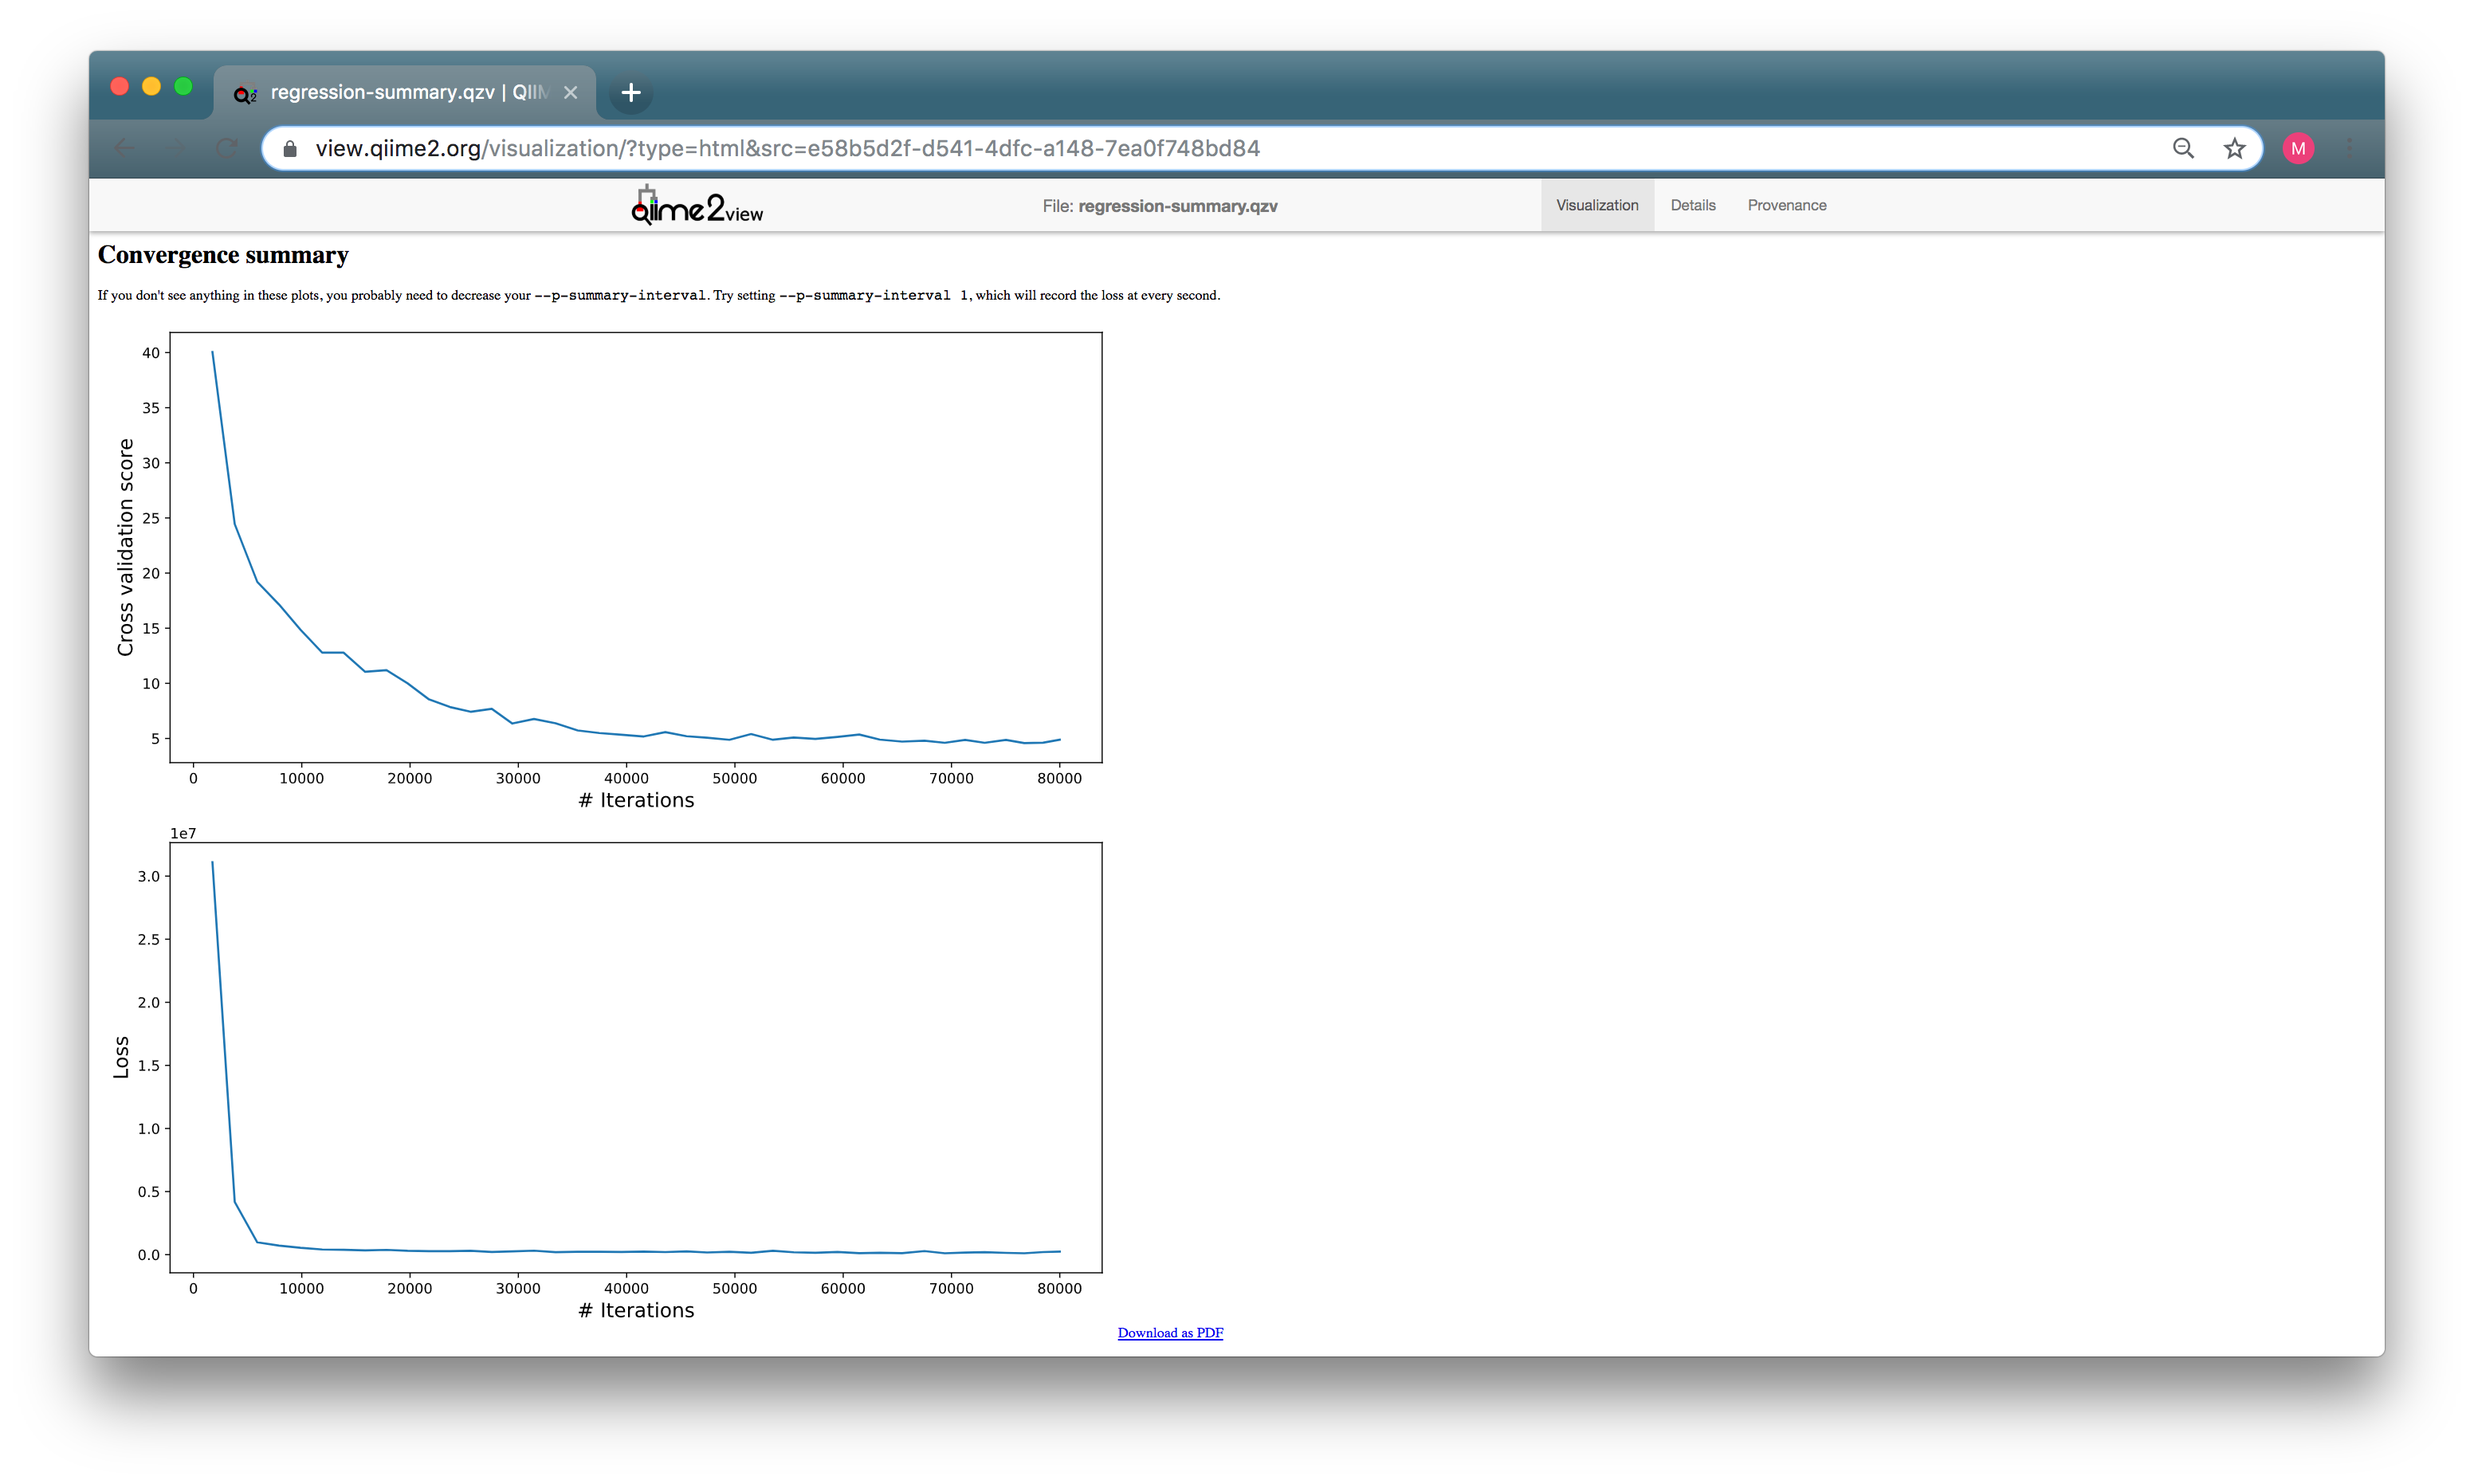
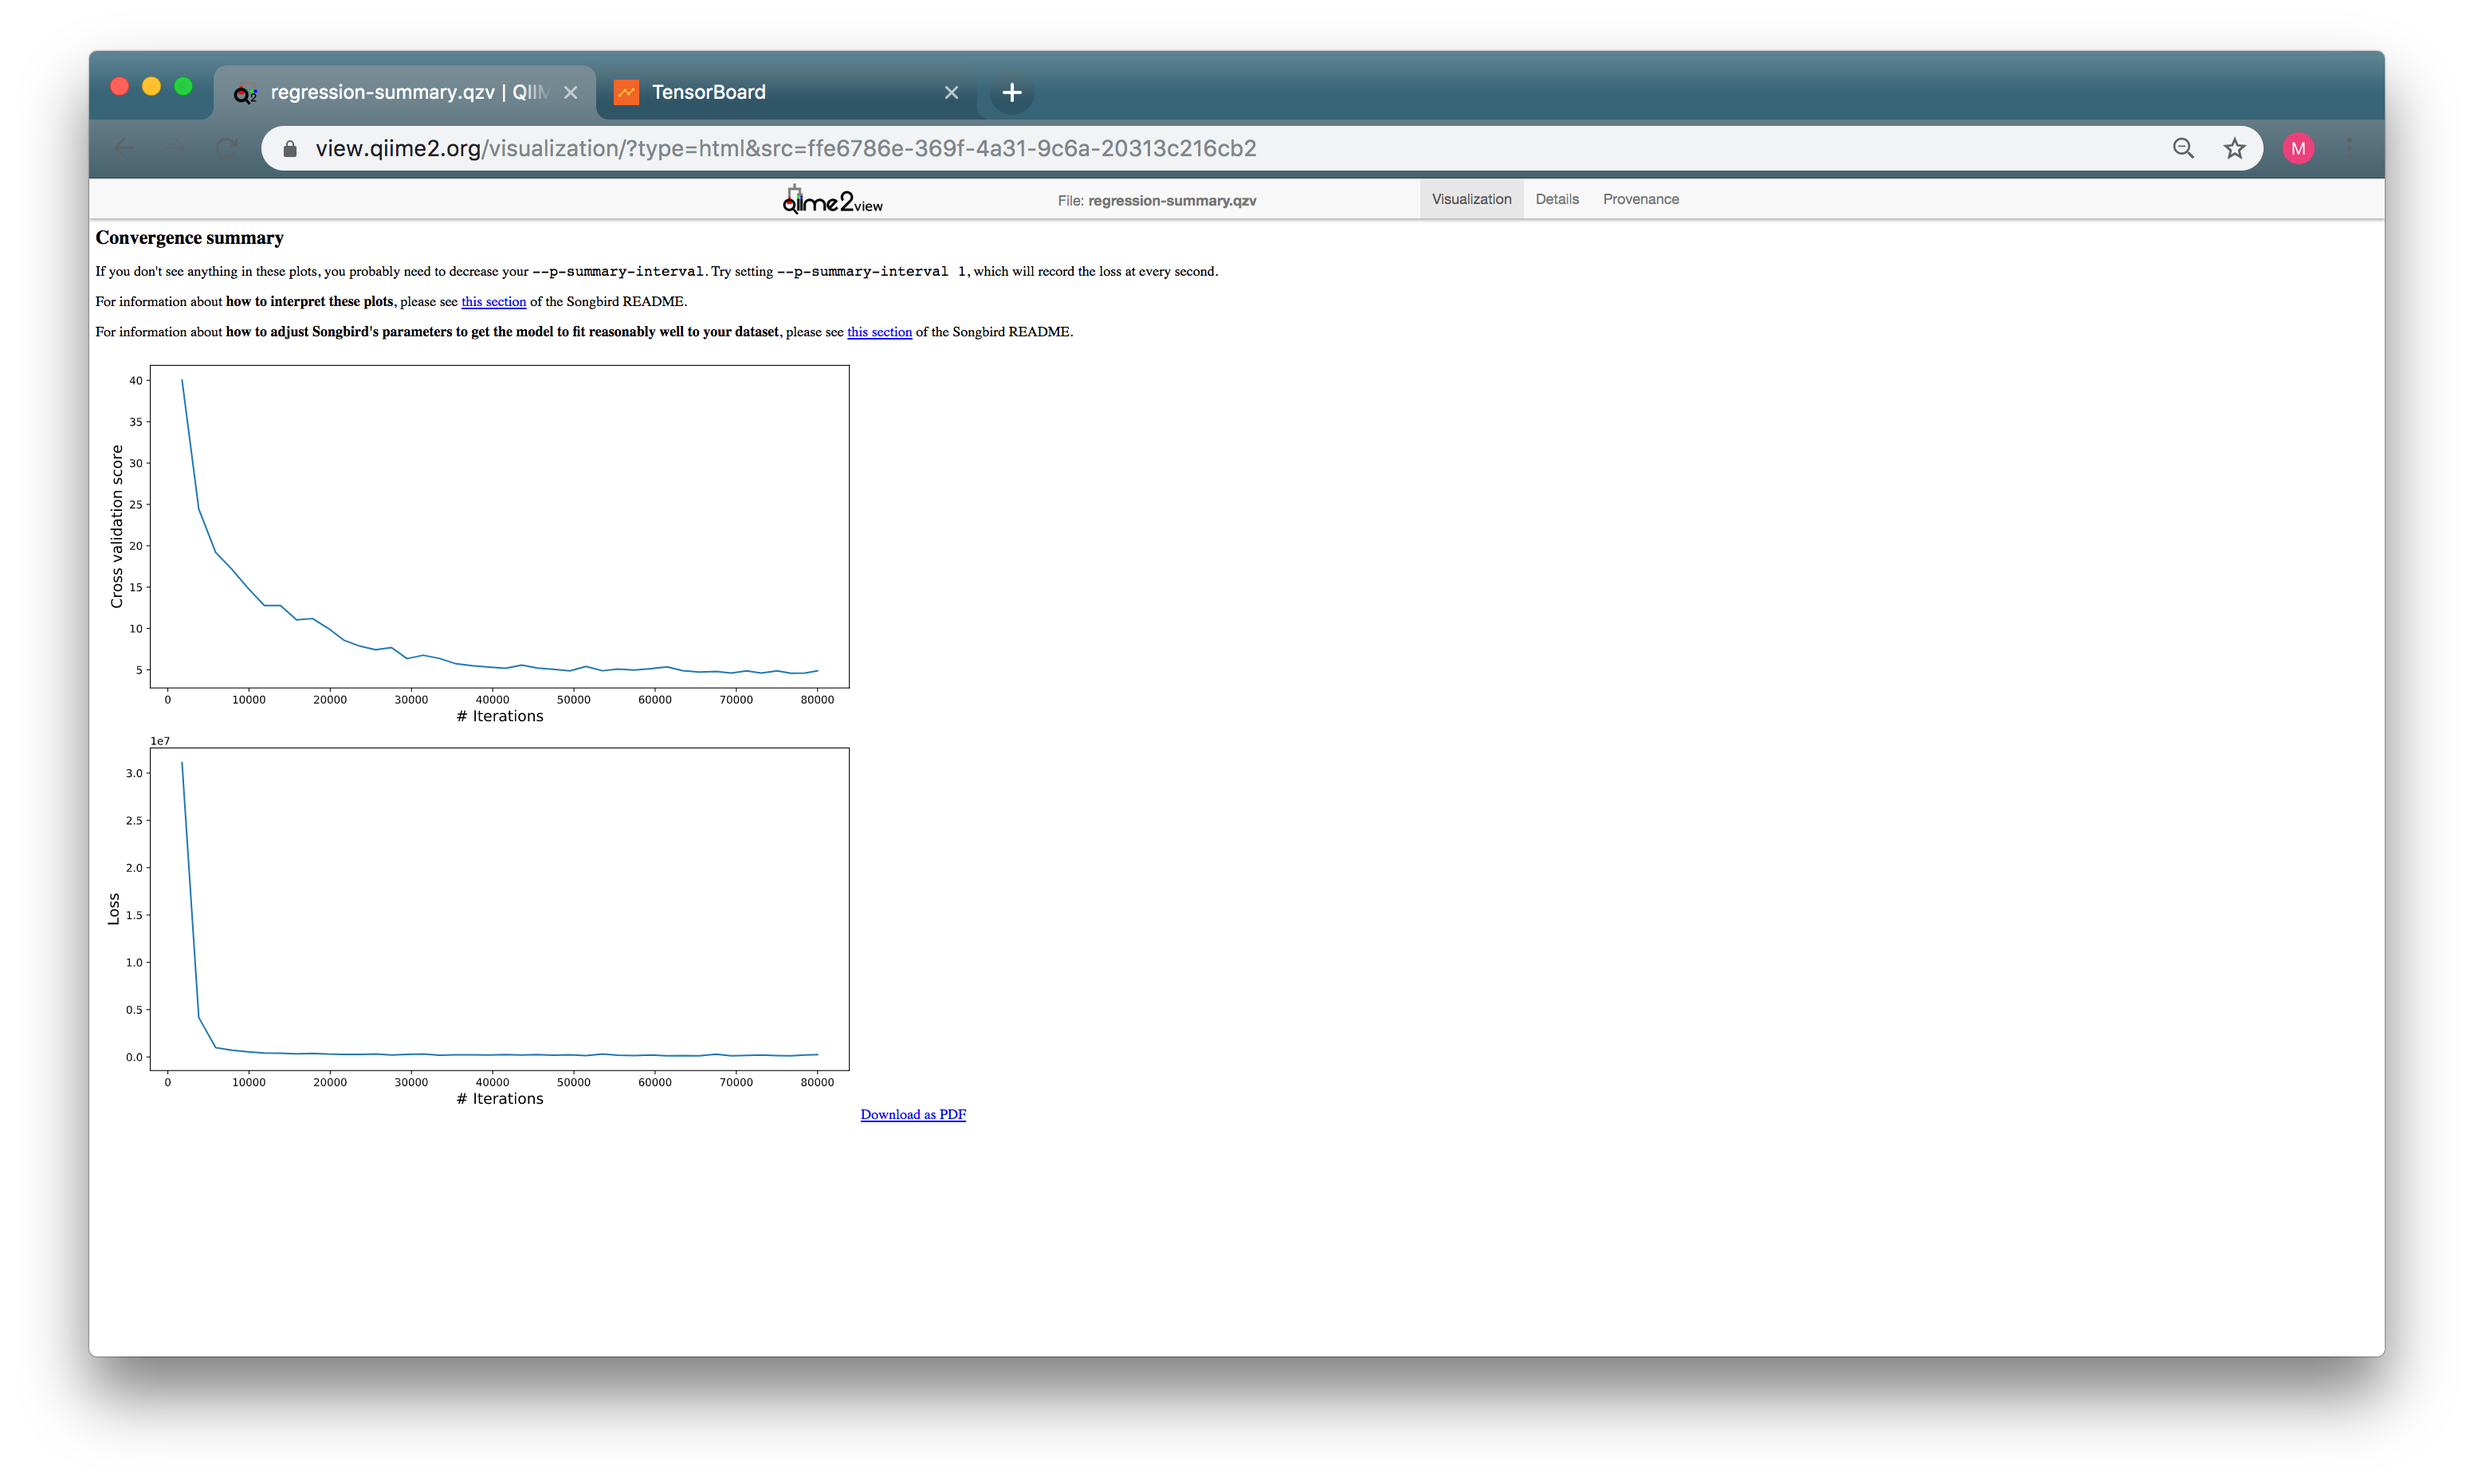
TST: Add links pointing from q2summaries to README
also updated the README summary screenshot accordingly.

I think now is kosher to submit a pr for #72!

diff --git a/songbird/q2/_summary.py b/songbird/q2/_summary.py
@@ -108,6 +108,19 @@ def _summarize(output_dir: str, regression: pd.DataFrame,
             "<kbd>--p-summary-interval 1</kbd>, which will record the loss at "
             "every second.</p>\n"
         )
+        index_f.write(
+            "<p>For information about <strong>how to interpret these "
+            "plots</strong>, please see "
+            '<a href="https://github.com/biocore/songbird#interpreting-model-fitting-information">this section</a> '  # noqa
+            "of the Songbird README.</p>"
+        )
+        index_f.write(
+            "<p>For information about <strong>how to adjust Songbird's "
+            "parameters to get the model to fit reasonably well to your "
+            "dataset</strong>, please see "
+            '<a href="https://github.com/biocore/songbird#adjusting-models-to-get-reasonable-fitting">this section</a> '  # noqa
+            "of the Songbird README.</p>"
+        )
         if q2 is not None:
             index_f.write(
                 '<p><strong>Pseudo Q-squared:</strong> %f</p>\n' % q2

diff --git a/songbird/q2/tests/test_summary.py b/songbird/q2/tests/test_summary.py
@@ -58,6 +58,11 @@ class TestSummary(unittest.TestCase):
                 html
             )
             self.assertIn('<a href="convergence-plot.pdf">', html)
+            self.assertIn("how to interpret these plots", html)
+            self.assertIn(
+                "how to adjust Songbird's parameters to get the model to fit",
+                html
+            )
 
     def test_summarize_error(self):
         """Tests that a certain error in _summarize() is raised if needed.
@@ -92,6 +97,11 @@ class TestSummary(unittest.TestCase):
                 html
             )
             self.assertIn('<a href="convergence-plot.pdf">', html)
+            self.assertIn("how to interpret these plots", html)
+            self.assertIn(
+                "how to adjust Songbird's parameters to get the model to fit",
+                html
+            )
 
 
 if __name__ == "__main__":

diff --git a/README.md b/README.md
@@ -147,6 +147,8 @@ Refreshing the page seems to help.)_
 And if you ran Songbird through QIIME 2, you can open up your `regression-summary.qzv` using `qiime tools view` or using [view.qiime2.org](https://view.qiime2.org) to see something like this:
 
 ![Summary of the QIIME 2 Songbird run on the Redsea data](https://github.com/biocore/songbird/raw/master/images/redsea-tutorial-summarize-single-output.png "Summary of the QIIME 2 Songbird run on the Redsea data")
+_(Note that this screenshot has been zoomed out a lot in order to show
+the full display.)_
 
 ### Hey! I don't see anything in my plots, what's up with that?
 **If you don't see anything in these plots, or if the plots only show a small handful of points, you probably need to decrease your `--summary-interval`/`--p-summary-interval` parameter.** This parameter (specified in seconds) impacts how often a "measurement" is taken for these plots. By default, it's set to 10 seconds -- but if your Songbird runs are finishing up in only a few seconds, that isn't very helpful!
